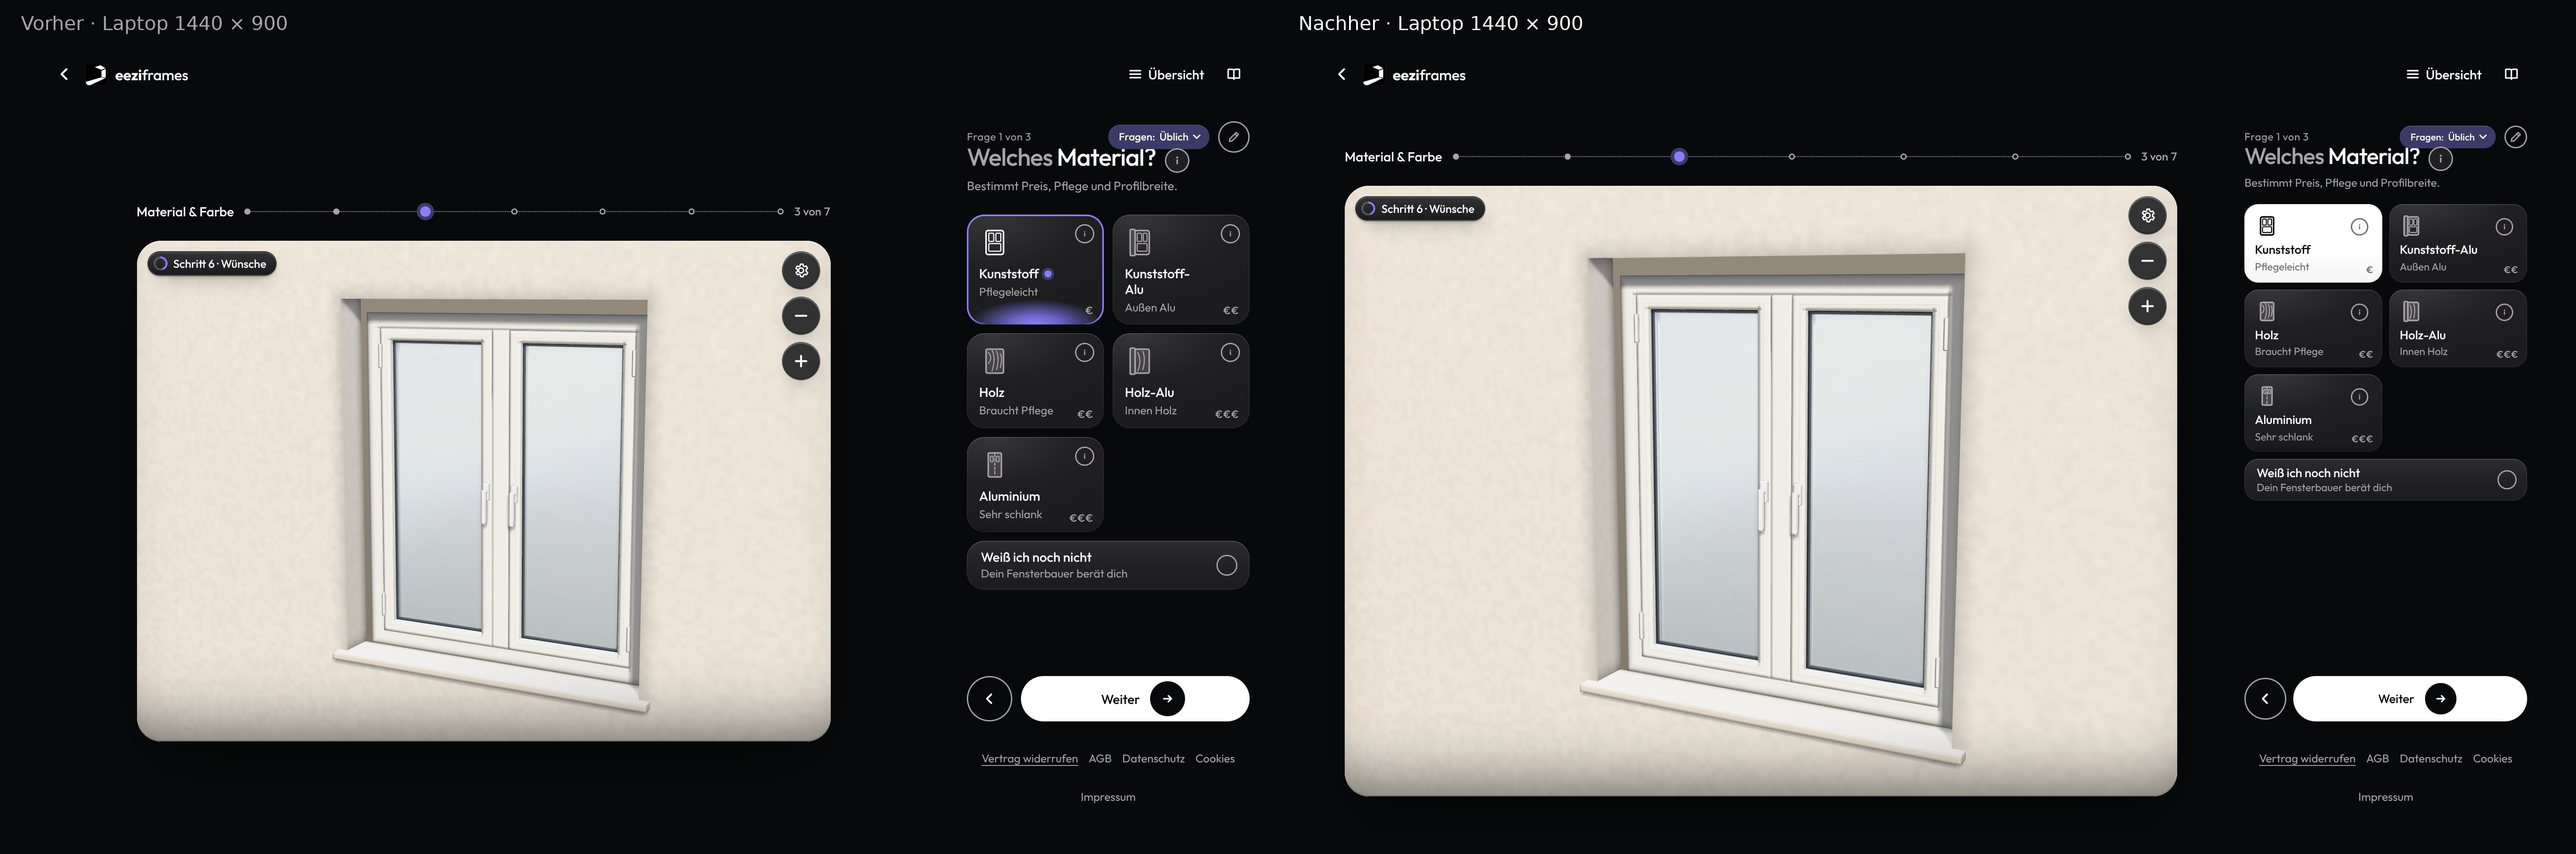
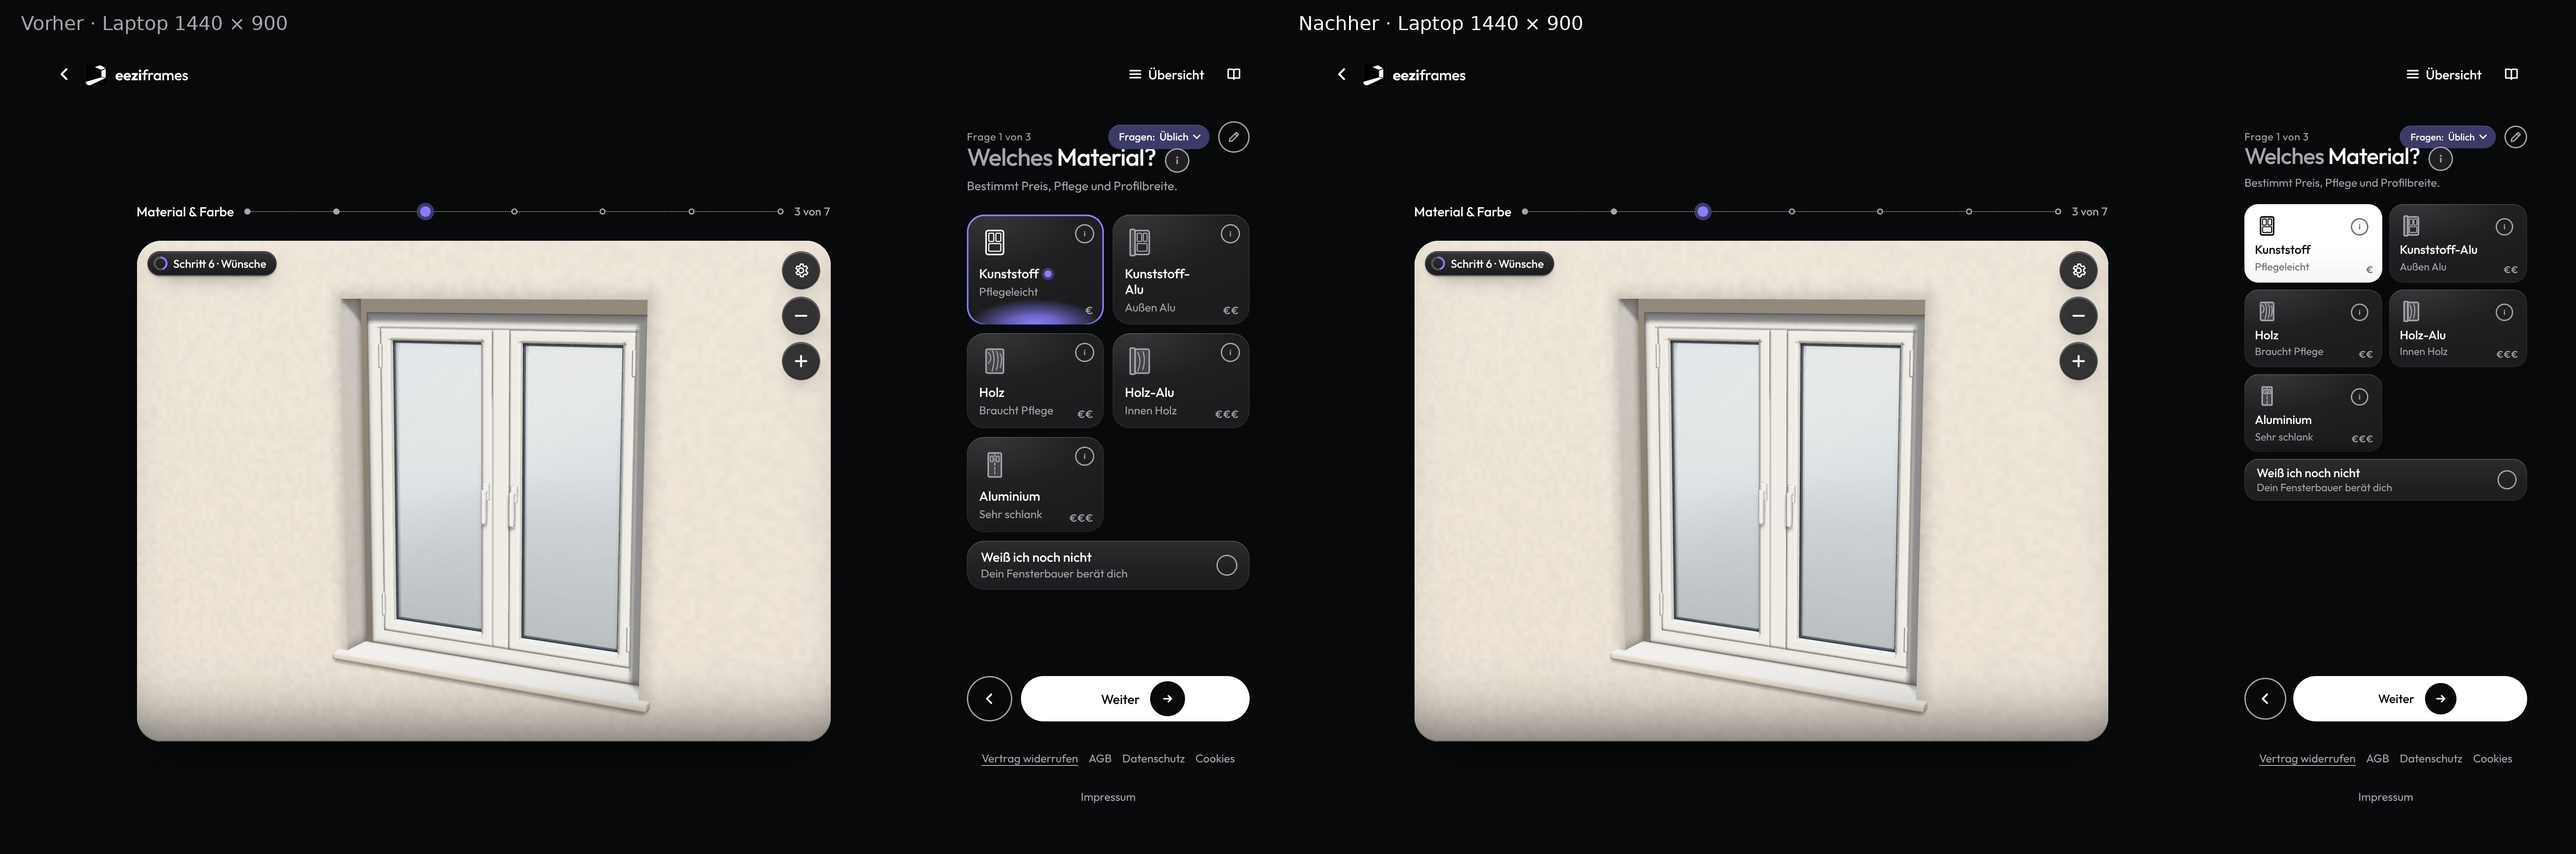
Konfigurator-Proportionen: Vergrößerung der Bühne nur am Telefon, Laptop-Bild neu
Claude-Session: https://claude.ai/code/session_01UfRZjiZLnBdh7QG6HtP33e

Changed region(s): [[0.4986, 0.2181, 0.8726, 0.9346], [0.5298, 0.1558, 0.561, 0.1869]]

diff --git a/docs/profis/werkzeuge/proportionen/nachher.css b/docs/profis/werkzeuge/proportionen/nachher.css
@@ -1,10 +1,8 @@
 /* Proportionen des Konfigurators (Vorschlag 29.10.2026): Bühne +20 %, Bedienelemente kompakter, gewählt = Weiß */
 
-/* 1. Bühne 20 % größer */
+/* 1. Bühne 20 % größer (nur Telefon) */
 .dna .wz-buehne { height: clamp(264px, calc(100svh - 430px), 326px) }
-@media (min-width: 1024px) {
-  .dna { --bx: clamp(16px, calc((100vw - 380px) * .05), 110px); --by: clamp(12px, calc((100svh - 60px) * .05), 60px) }
-}
+/* Laptop: Bühne unverändert (Inhaber, 29.10.2026: die Vergrößerung gilt nur fürs Telefon) */
 
 /* 2. Frage und Antworten kompakter */
 .dna .wz-frage h1 { font-size: 26px }
